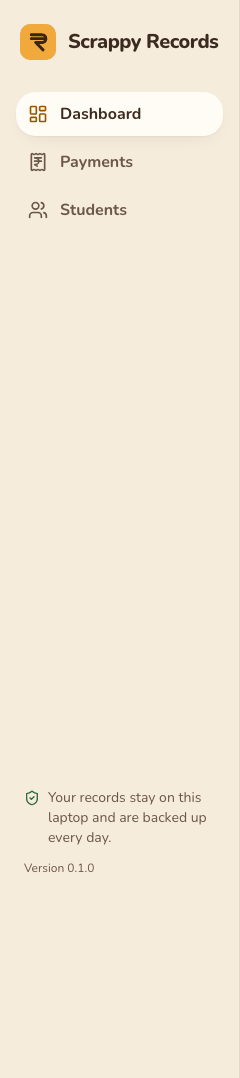
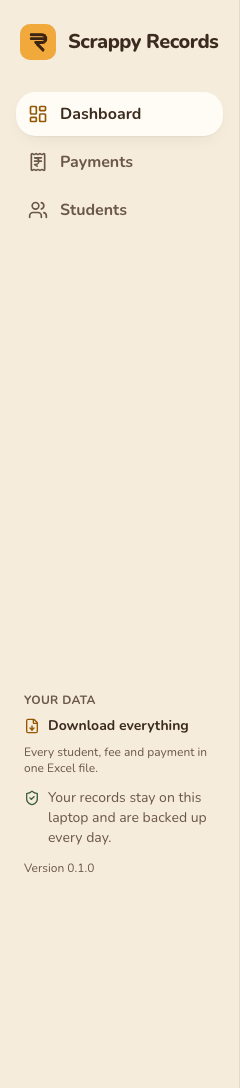
chore: rebase onto credit allocation; uploaded payments follow it
- Pass the current month to the payments service (it now says where each payment's money
  went); the round-trip comparison ignores payment ids at any depth
- e2e: an uploaded payment double the fee pays the month still owed, shown as credit
- v0.1.0 ledger test: the only migrations since are the two additive Excel ones
- Guide: uploaded and assigned payments count like any other; retaken pictures

diff --git a/frontend/e2e/excel.spec.ts b/frontend/e2e/excel.spec.ts
@@ -9,7 +9,17 @@ import path from 'node:path'
 
 import { expect, test, type Page } from '@playwright/test'
 
-import { createStudent, monthRow, serverMonth, uniqueName } from './helpers'
+import { formatDate, today } from '../src/lib/format'
+import {
+  addMonths,
+  createStudent,
+  formatMonth,
+  monthRow,
+  panel,
+  pay,
+  serverMonth,
+  uniqueName,
+} from './helpers'
 
 const folder = mkdtempSync(path.join(tmpdir(), 'scrappy-excel-'))
 
@@ -178,4 +188,54 @@ test('a payment for someone not found waits as unassigned, then is given to a st
   await page.goto(`/students/${keptId}`)
   // ₹1,200 of a ₹1,500 fee: part paid.
   await expect(monthRow(page, now).getByText('Partial')).toBeVisible()
+})
+
+test('an uploaded payment double the fee pays the month still owed, as credit', async ({
+  page,
+}) => {
+  const request = page.request
+  const now = await serverMonth(request)
+  const [first, missed] = [addMonths(now, -2), addMonths(now, -1)]
+  const name = uniqueName('Kiara')
+  const tag = uniqueName('Double').replace(/ /g, '')
+  const id = await createStudent(request, { name, monthly_fee_paise: 150000, joined_month: first })
+  await pay(request, { student_id: id, amount_paise: 150000, for_month: first })
+  // ₹3,000 for this month, in a file: logged, downloaded, then taken out again to upload.
+  const paid = await request.post('/api/payments', {
+    data: { student_id: id, amount_paise: 300000, paid_on: today(), for_month: now,
+            method: 'upi', note: tag },
+  }) // prettier-ignore
+  expect(paid.status()).toBe(201)
+  await page.goto('/payments')
+  await page.getByRole('searchbox', { name: /Search payments/ }).fill(tag)
+  await expect(page.getByRole('table').getByText('1 payment', { exact: true })).toBeVisible()
+  const file = await download(page, 'Download Excel')
+  const { id: paymentId } = (await paid.json()) as { id: number }
+  expect((await request.delete(`/api/payments/${paymentId}`)).status()).toBe(204)
+
+  // Last month is owed again; the upload brings the double payment back.
+  await page.goto(`/students/${id}`)
+  await expect(monthRow(page, missed).getByText('Unpaid')).toBeVisible()
+  await page.goto('/payments')
+  const dialog = await upload(page, file.file)
+  await expect(dialog.getByTestId('upload-summary')).toHaveText('Will add 1 payment.')
+  await dialog.getByRole('button', { name: 'Add' }).click()
+  await expect(page.getByText('Added 1 payment', { exact: true })).toBeVisible()
+
+  // The extra ₹1,500 pays last month, like a payment typed in.
+  const short = (month: string) => {
+    const [monthName, year] = formatMonth(month).split(' ')
+    return `${monthName!.slice(0, 3)} ${year}`
+  }
+  await page.goto(`/students/${id}`)
+  await expect(monthRow(page, missed).getByText('Paid', { exact: true })).toBeVisible()
+  await expect(
+    monthRow(page, missed).getByText(
+      `₹1,500 credit from the ${formatDate(today())} payment (for ${short(now)})`,
+    ),
+  ).toBeVisible()
+  await page.goto('/')
+  await expect(
+    panel(page, /Earlier months still owed/).getByRole('link', { name: new RegExp(name) }),
+  ).toHaveCount(0)
 })

diff --git a/backend/app/services/exports.py b/backend/app/services/exports.py
@@ -198,6 +198,7 @@ _PAYMENT_COLUMNS = (
 
 def payments_shown(
     session: Session,
+    current_month: dt.date,
     *,
     student_id: int | None,
     month: str | None,
@@ -208,7 +209,7 @@ def payments_shown(
 ) -> list[PaymentRead]:
     """The payments the Payments page shows for these filters, in its order."""
     rows = payment_service.list_payments(
-        session, student_id=student_id, month=month, q=q, sort=sort, order=order
+        session, current_month, student_id=student_id, month=month, q=q, sort=sort, order=order
     )
     return [p for p in rows if method is None or p.method is method]
 
@@ -300,7 +301,7 @@ def everything_workbook(session: Session, current_month: dt.date) -> bytes:
         ),
     )
 
-    payments = payment_service.list_payments(session)
+    payments = payment_service.list_payments(session, current_month)
     _add_sheet(
         book,
         "Payments",

diff --git a/backend/tests/test_excel_export.py b/backend/tests/test_excel_export.py
@@ -34,9 +34,17 @@ def values(ws: Worksheet) -> list[list[Any]]:
 # --------------------------------------------------------------------------- the round trip
 
 
-def _strip(item: Json) -> Json:
-    return {k: v for k, v in item.items() if k not in ("id", "student_id", "created_at",
-                                                        "updated_at")}  # fmt: skip
+_IDS = ("id", "student_id", "payment_id", "created_at", "updated_at")
+
+
+def _strip(item: Any) -> Any:
+    """`item` without database ids or timestamps, at any depth (a credit source names the
+    payment it came from by id)."""
+    if isinstance(item, dict):
+        return {k: _strip(v) for k, v in item.items() if k not in _IDS}
+    if isinstance(item, list):
+        return [_strip(v) for v in item]
+    return item
 
 
 def _records(api: TestClient) -> Json:

diff --git a/backend/app/routers/excel.py b/backend/app/routers/excel.py
@@ -73,6 +73,7 @@ def export_students(
 def export_payments(
     session: SessionDep,
     today: TodayDep,
+    current: CurrentMonthDep,
     student_id: int | None = Query(None, gt=0),
     month: Month | None = Query(None),
     q: str | None = Query(None, max_length=200),
@@ -82,7 +83,14 @@ def export_payments(
 ) -> Response:
     """The payments on the Payments page for these filters, in its order, as an Excel file."""
     rows = exports.payments_shown(
-        session, student_id=student_id, month=month, q=q, method=method, sort=sort, order=order
+        session,
+        current,
+        student_id=student_id,
+        month=month,
+        q=q,
+        method=method,
+        sort=sort,
+        order=order,
     )
     return _xlsx(exports.payments_workbook(session, rows), exports.filename("payments", today))
 

diff --git a/backend/tests/test_ledger_on_v0_1_0_data.py b/backend/tests/test_ledger_on_v0_1_0_data.py
@@ -25,9 +25,16 @@ V0_1_0_HEAD = "0002"
 """The last migration in v0.1.0 (`20260930_0002_fee_change_kind`)."""
 
 
+# Since v0.1.0 only Excel uploads added to the database: a new table (0003,
+# unassigned_payments) and a new nullable column (0004, students.uid). Neither is read by the
+# ledger, and credit allocation itself stores nothing.
+ADDED_SINCE_V0_1_0 = ("0003", "0004")
+
+
 def test_no_migration_since_v0_1_0() -> None:
     # Credit allocation must not change how data is stored.
-    assert migrate.head_revision() == V0_1_0_HEAD
+    assert migrate.head_revision() == ADDED_SINCE_V0_1_0[-1]
+    assert V0_1_0_HEAD == "0002"
 
 
 # Students as v0.1.0 stored them (the current month in these tests is June 2026).

diff --git a/backend/tests/test_migration_unassigned.py b/backend/tests/test_migration_unassigned.py
@@ -1,5 +1,5 @@
-"""Migrations 0003 (unassigned_payments) and 0004 (students.uid) only add: the records a v0.1.0 laptop has come
-through untouched, and the new table has the same safeguards as `payments`."""
+"""Migrations 0003 (unassigned_payments) and 0004 (students.uid) only add: the records a v0.1.0
+laptop has come through untouched, and the new table has the same safeguards as `payments`."""
 
 from __future__ import annotations
 

diff --git a/backend/app/services/unassigned.py b/backend/app/services/unassigned.py
@@ -114,7 +114,7 @@ def assign(session: Session, row_id: int, student_id: int, today: dt.date) -> Pa
     session.add(payment)
     session.delete(row)
     session.commit()
-    return get_payment(session, payment.id)
+    return get_payment(session, payment.id, today.replace(day=1))
 
 
 def delete(session: Session, row_id: int) -> None:

diff --git a/docs/feature-guide.md b/docs/feature-guide.md
@@ -1543,6 +1543,8 @@ since, and adds nothing twice.
 ### Good to know
 
 - **An upload only adds.** It never changes or overwrites anything already in the app.
+- **Uploaded payments count like any other:** money above a month's fee pays the oldest month
+  still owed, and the profile and Dashboard say so (*"₹1,500 credit from the … payment"*).
 - **Uploading the same file twice is safe:** everything that was added the first time shows as
   *Already exists*.
 - **A backup is saved just before anything is added** (`records-pre-import-…` in your backups
@@ -1653,7 +1655,8 @@ If they really paid twice, log the second one with **+ Log payment**, then delet
 ### Good to know
 
 - **Unassigned payments count nowhere:** not in any student's balance, and not in the
-  Dashboard's *Collected* or *Still due*. Once assigned, they count like any other payment.
+  Dashboard's *Collected* or *Still due*. Once assigned, they count like any other payment
+  (extra money in one pays the oldest month still owed).
 - **Download everything** includes them (the *Unassigned payments* sheet), so they come back
   after moving to a new laptop.
 - Uploading the same file again doesn't add them twice.
